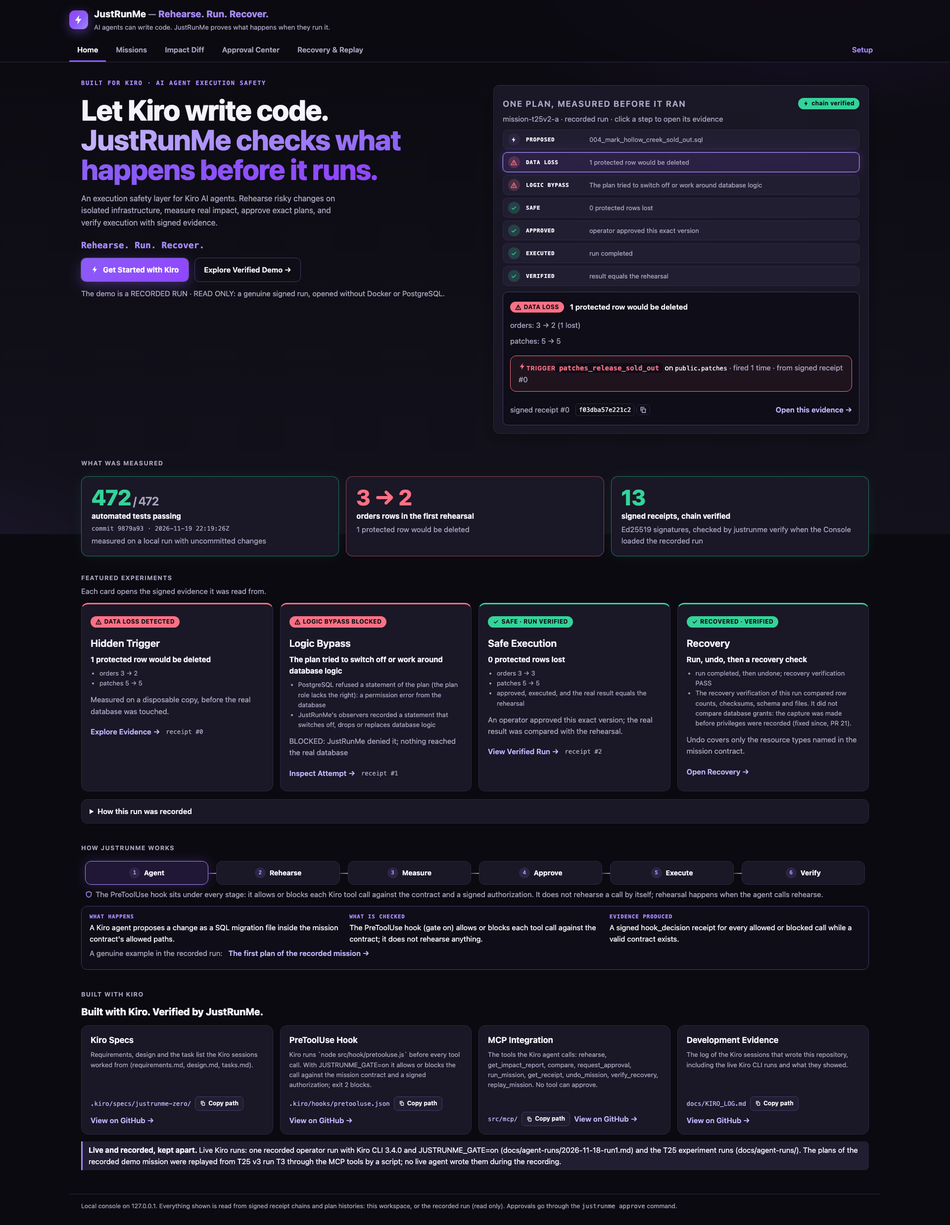
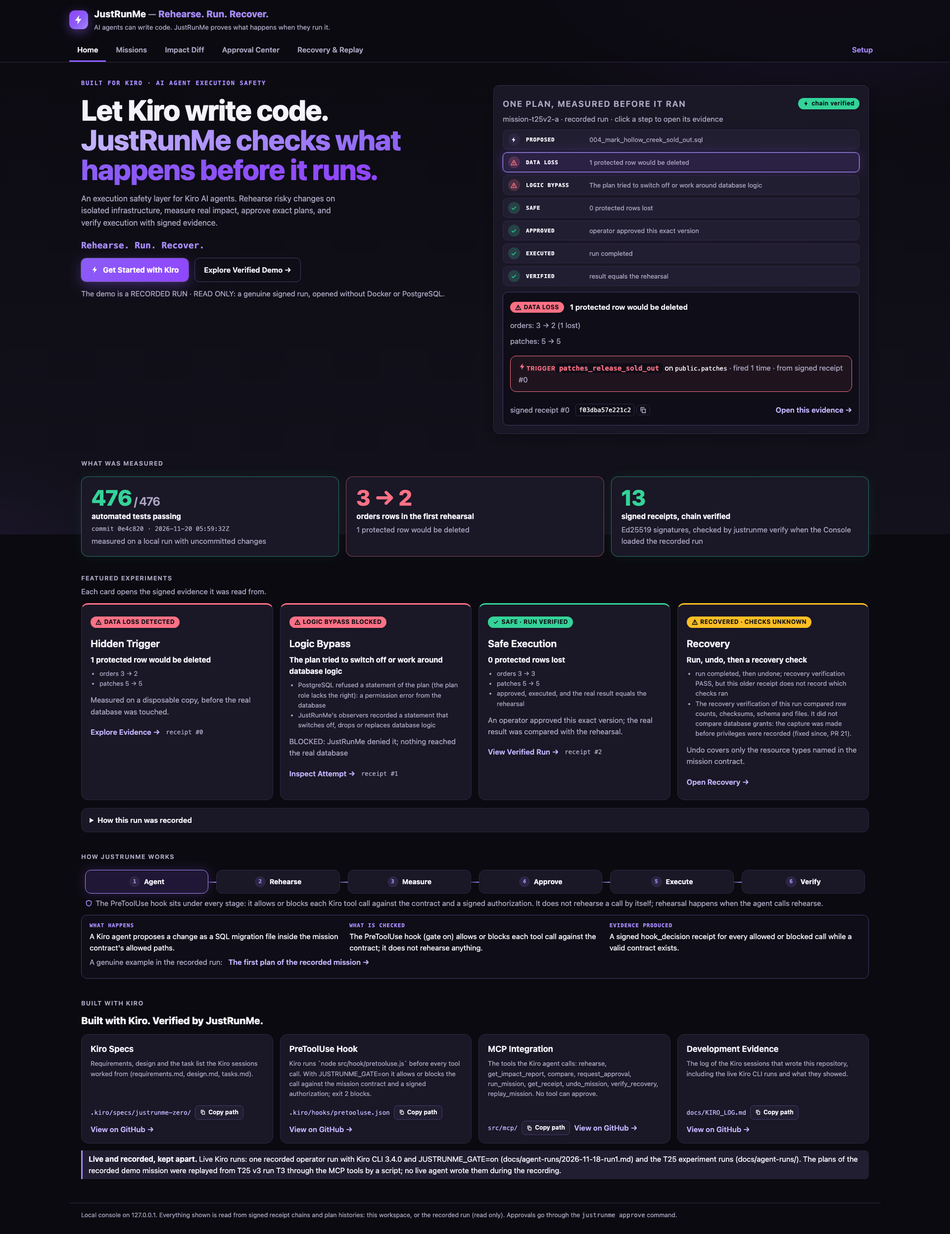
feat: verification receipts list their checks; the Console keeps four recovery states apart (#23)
- undo: the verification receipt carries checked (the kinds of check that
  ran) next to not_checked
- history: each undo has receipt_format current or legacy, checked and
  not_checked; an absent list is unknown, never complete
- Console: RECOVERED · VERIFIED (PASS, checks listed), RECOVERED · CHECKS
  UNKNOWN (PASS from a legacy receipt), RESTORED · NOT VERIFIED
  (UNVERIFIABLE), RECOVERY FAILED (FAIL), on cards, the Flight Recorder,
  Recovery & Replay and Home; the limit only where checks are unknown

diff --git a/src/console/static/model.js b/src/console/static/model.js
@@ -50,10 +50,15 @@ export function runOutcome(story) {
   if (!r) return null
   // RECOVERED only with a verification receipt that says PASS; an undo without one is not a recovery claim.
   if (r.undo) {
-    if (r.undo.verification === 'PASS') return { label: 'RECOVERED · VERIFIED', tone: 'ok', text: `run ${r.verdict}, then undone; recovery verification PASS` }
+    if (r.undo.verification === 'PASS') {
+      // A PASS counts as a full recovery claim only when the receipt says which checks ran.
+      if (r.undo.receipt_format !== 'current') return { label: 'RECOVERED · CHECKS UNKNOWN', tone: 'warn', text: `run ${r.verdict}, then undone; recovery verification PASS, but this older receipt does not record which checks ran` }
+      const grants = (r.undo.checked ?? []).includes('privileges')
+      return { label: 'RECOVERED · VERIFIED', tone: 'ok', text: `run ${r.verdict}, then undone; recovery verification PASS${grants ? ' (data, schema, files and supported database grants and ownership)' : ''}` }
+    }
     if (r.undo.verification == null) return { label: 'UNDONE · NOT VERIFIED', tone: 'mute', text: `run ${r.verdict}, then undone; no recovery verification is recorded` }
     // A required check could not be made (a capture older than the check): restored, not verified.
-    if (r.undo.verification === 'UNVERIFIABLE') return { label: 'RESTORED · NOT VERIFIED', tone: 'mute', text: `run ${r.verdict}, then undone; a required recovery check could not be made (UNVERIFIABLE)` }
+    if (r.undo.verification === 'UNVERIFIABLE') return { label: 'RESTORED · NOT VERIFIED', tone: 'mute', text: `run ${r.verdict}, then undone; a required recovery check could not be made: ${(r.undo.not_checked ?? []).map((c) => c.check).join(', ') || 'UNVERIFIABLE'}` }
     return { label: 'RECOVERY FAILED', tone: 'bad', text: `run ${r.verdict}, then undone; recovery verification ${r.undo.verification}` }
   }
   if (runVerified(f)) return { label: 'COMPLETED · VERIFIED', tone: 'ok', text: f.links ? 'approved, executed, and the real result equals the rehearsal' : 'executed, and the real result equals the rehearsal' }
@@ -187,7 +192,7 @@ export function flight(story) {
           : missing('no approval requested'),
     EXECUTED: f.run ? { state: f.run.verdict === 'completed' && (f.links ? linkOk('EXECUTED_AS_AUTHORIZED') : true) ? 'ok' : 'bad', note: `run ${f.run.verdict}`, receipt: rec(f.run), run: f.run } : missing('not run'),
     VERIFIED: f.run
-      ? { state: !((f.links ? linkOk('RESULT_AS_REHEARSED') : f.run.matches_rehearsal === true)) ? 'bad' : !f.run.undo || f.run.undo.verification === 'PASS' ? 'ok' : f.run.undo.verification === 'FAIL' ? 'bad' : 'mute', note: `${f.run.matches_rehearsal ? 'result equals the rehearsal' : `${f.run.differences ?? '?'} difference(s) from the rehearsal`}${f.run.undo ? `; undone, recovery check ${f.run.undo.verification ?? '—'}` : ''}`, receipt: rec(f.run), run: f.run }
+      ? { state: !((f.links ? linkOk('RESULT_AS_REHEARSED') : f.run.matches_rehearsal === true)) ? 'bad' : !f.run.undo ? 'ok' : f.run.undo.verification === 'PASS' ? (f.run.undo.receipt_format === 'current' ? 'ok' : 'warn') : f.run.undo.verification === 'FAIL' ? 'bad' : 'mute', note: `${f.run.matches_rehearsal ? 'result equals the rehearsal' : `${f.run.differences ?? '?'} difference(s) from the rehearsal`}${f.run.undo ? `; undone, recovery check ${f.run.undo.verification ?? '—'}` : ''}`, receipt: rec(f.run), run: f.run }
       : missing('nothing to verify yet'),
   }
   return FLIGHT.map((name) => ({ name, ...node[name] }))
@@ -313,7 +318,7 @@ export function eligibility(detail, { now = Date.now(), storyState = null, verif
 /** Triage: what needs a person first. Lower is more urgent. */
 export function urgency(story, verifyOk = true) {
   const v = missionVerdict(story, verifyOk)
-  return { 'NEEDS APPROVAL': 0, 'NOT AS REHEARSED': 1, 'RECOVERY FAILED': 1, 'RUN FAILED': 1, 'NOT VERIFIED': 1, UNVERIFIABLE: 2, DENIED: 2, 'NOT SAFE': 2, REPAIRED: 3, APPROVED: 3, SAFE: 4 }[v.label] ?? 5
+  return { 'NEEDS APPROVAL': 0, 'NOT AS REHEARSED': 1, 'RECOVERY FAILED': 1, 'RESTORED · NOT VERIFIED': 1, 'RECOVERED · CHECKS UNKNOWN': 3, 'RUN FAILED': 1, 'NOT VERIFIED': 1, UNVERIFIABLE: 2, DENIED: 2, 'NOT SAFE': 2, REPAIRED: 3, APPROVED: 3, SAFE: 4 }[v.label] ?? 5
 }
 
 // ---- Home: the recorded run as an evidence trail and four experiment cards ---------------------
@@ -378,10 +383,12 @@ export function experimentCards(states, provenance = null) {
     ? { id: 'safe-execution', title: 'Safe Execution', tone: 'ok', label: 'SAFE · RUN VERIFIED', headline: `${losses(safe).rows_lost} protected rows lost`, lines: [...tableLines(safe).map((t) => `${t.name} ${t.before ?? '?'} → ${t.after ?? '?'}`), runOutcome(safeE[1]).text], seq: safe.seq, receipt: rcpt(safe), mission: safeE[0], href: `missions/${safeE[0]}/verified`, cta: 'View Verified Run', note: 'An operator approved this exact version; the real result was compared with the rehearsal.' }
     : miss('safe-execution', 'Safe Execution', safe && !safeE[2] ? 'The chain of this run does not pass `justrunme verify`, so no result is claimed.' : 'This recording has no verified run of a SAFE plan.')
 
-  const recE = find((s) => runOutcome(s)?.label === 'RECOVERED · VERIFIED')
+  // The card shows the recovery as the receipt states it: verified, or with checks unknown (older receipt).
+  const recE = find((s) => ['RECOVERED · VERIFIED', 'RECOVERED · CHECKS UNKNOWN'].includes(runOutcome(s)?.label))
   const limit = recE ? provenance?.missions?.[recE[0]]?.limit ?? null : null
+  const recOut = recE ? runOutcome(recE[1]) : null
   const c4 = recE && recE[2]
-    ? { id: 'recovery', title: 'Recovery', tone: 'ok', label: 'RECOVERED · VERIFIED', headline: 'Run, undo, then a recovery check', lines: [runOutcome(recE[1]).text, ...(limit ? [limit] : [])], mission: recE[0], href: 'recovery', cta: 'Open Recovery', note: 'Undo covers only the resource types named in the mission contract.' }
+    ? { id: 'recovery', title: 'Recovery', tone: recOut.tone, label: recOut.label, headline: 'Run, undo, then a recovery check', lines: [runOutcome(recE[1]).text, ...(limit ? [limit] : [])], mission: recE[0], href: 'recovery', cta: 'Open Recovery', note: 'Undo covers only the resource types named in the mission contract.' }
     : miss('recovery', 'Recovery', recE ? 'The chain of this run does not pass `justrunme verify`, so no recovery is claimed.' : 'This recording has no undo with a passing recovery check.')
   return [c1, c2, c3, c4]
 }
@@ -401,12 +408,11 @@ export function missionSummary(story, verifyOk = true) {
       : f.pending ? 'waiting for the operator\'s approval'
         : f.approved ? 'approved, not run yet'
           : revisions.length ? 'not run' : 'no rehearsal yet'
-  // A recovery claim carries its limit wherever it is shown.
-  return { revisions, outcome: out?.label === 'RECOVERED · VERIFIED' ? `${outcome} (database grants were not compared)` : outcome, tone: v.tone }
+  return { revisions, outcome, tone: v.tone }
 }
 
-/** What the recovery verification does not cover today (engine issue, tracked separately). */
-export const RECOVERY_LIMIT = 'This recovery check compared the schema, row counts, checksums and files; it did not compare database grants or ownership (its capture was made before privileges were recorded). Captures made since then record them, and their recovery check compares supported database grants and ownership.'
+/** Shown next to a recovery whose verification receipt does not list its checks (an older receipt format). */
+export const RECOVERY_LIMIT = 'This verification receipt is in an older format: it does not record which checks ran, so the completeness of this recovery check is unknown. Recoveries verified before database privileges were recorded compared the schema, row counts, checksums and files, not grants or ownership. Current receipts list every check, and their check compares supported database grants and ownership.'
 
 /**
  * The top of Recovery & Replay: what the run and the undo showed, from the verified story only.
@@ -424,7 +430,13 @@ export function recoverySummary(story, verifyOk = true) {
     { ok: r.verdict === 'completed', text: `Run #${r.seq}: ${r.verdict}` },
     { ok: r.matches_rehearsal === true, text: r.matches_rehearsal === true ? 'The real result matched the rehearsal' : `${r.differences ?? '?'} difference(s) from the rehearsal` },
   ]
-  if (r.undo) lines.push({ ok: r.undo.verification === 'PASS', text: `Undone; recovery verification ${r.undo.verification ?? 'not recorded'}` })
+  if (r.undo) {
+    const v = r.undo.verification
+    lines.push({ ok: v === 'PASS' ? true : v === 'FAIL' ? false : null, text: `Undone; recovery verification ${v ?? 'not recorded'}` })
+    if (r.undo.receipt_format === 'current' && v === 'PASS') lines.push({ ok: (r.undo.checked ?? []).includes('privileges') ? true : null, text: `Checked: ${(r.undo.checked ?? []).join(', ')}` })
+    for (const c of r.undo.not_checked ?? []) lines.push({ ok: null, text: `Not checked: ${c.check} (${c.resource})` })
+  }
   const label = out?.label === 'COMPLETED · VERIFIED' ? 'EXECUTION VERIFIED' : out?.label ?? 'RUN RECORDED'
-  return { label, tone: out?.tone ?? 'mute', lines, limit: r.undo ? RECOVERY_LIMIT : null }
+  // The limit is shown only where the receipt cannot say which checks ran.
+  return { label, tone: out?.tone ?? 'mute', lines, limit: r.undo?.verification === 'PASS' && r.undo.receipt_format !== 'current' ? RECOVERY_LIMIT : null }
 }

diff --git a/test/console-setup.test.js b/test/console-setup.test.js
@@ -222,11 +222,12 @@ describe('Recorded titles and recovery claims', () => {
     const sa = missionSummary(states[A].story.result, true)
     assert.deepEqual(sa.revisions.map((r) => `#${r.seq} ${r.verdict}`), ['#0 DATA LOSS', '#1 LOGIC BYPASS', '#2 SAFE'])
     const sb = missionSummary(states[B].story.result, true)
-    assert.ok(sb.outcome.includes('recovery verification PASS') && sb.outcome.includes('database grants were not compared'))
+    assert.ok(sb.outcome.includes('recovery verification PASS') && sb.outcome.includes('does not record which checks ran'), sb.outcome)
     const rb = recoverySummary(states[B].story.result, true)
-    assert.equal(rb.label, 'RECOVERED · VERIFIED')
+    assert.equal(rb.label, 'RECOVERED · CHECKS UNKNOWN', 'an older receipt does not say which checks ran')
+    assert.equal(rb.tone, 'warn')
     assert.equal(rb.limit, RECOVERY_LIMIT)
-    assert.ok(RECOVERY_LIMIT.includes('did not compare database grants or ownership'))
+    assert.ok(RECOVERY_LIMIT.includes('completeness of this recovery check is unknown') && RECOVERY_LIMIT.includes('not grants or ownership'))
     const ra = recoverySummary(states[A].story.result, true)
     assert.equal(ra.label, 'EXECUTION VERIFIED')
     assert.deepEqual(ra.lines.map((l) => l.ok), [true, true, true])
@@ -238,9 +239,55 @@ describe('Recorded titles and recovery claims', () => {
     const { recoveryScreen } = await import('../src/console/static/screens.js')
     const root = recoveryScreen(states[B], { ui: {}, route: { screen: 'recovery' }, readOnly: true, api: async () => ({}) })
     const t = text(root)
-    assert.ok(t.indexOf('RECOVERED · VERIFIED') < t.indexOf('Receipt chain'), 'summary before the chain')
-    assert.ok(t.includes('did not compare database grants'), 'the limit is next to the claim')
+    assert.ok(t.indexOf('RECOVERED · CHECKS UNKNOWN') < t.indexOf('Receipt chain'), 'summary before the chain')
+    assert.ok(t.includes('completeness of this recovery check is unknown'), 'the limit is next to the claim')
     assert.ok(t.includes('Authorized at the command line'))
     assert.equal(findAll(root, (e) => e.tag === 'details' && hasClass(e, 'chain-box')).length, 1)
+  })
+})
+
+describe('Four recovery states stay apart (history exposes what the verification checked)', () => {
+  const base = (undo) => ({
+    chain_ok: true, history: { ok: true }, requests: [], links: [], timeline: [],
+    versions: [{ seq: 0, verdict: 'SAFE', available: true, plan_id: 'plan-000000000001', report_hash: 'h', files: [] }],
+    runs: [{ seq: 1, verdict: 'completed', matches_rehearsal: true, report_hash: 'h', authorization: 'a', undo: { seq: 2, verdict: 'undo', ...undo } }],
+  })
+  const CURRENT = { receipt_format: 'current', checked: ['file_sha256', 'privileges', 'row_count', 'schema_hash', 'table_checksum'], not_checked: [] }
+
+  it('PASS with its checks listed is RECOVERED · VERIFIED; PASS from an older receipt is CHECKS UNKNOWN; UNVERIFIABLE is RESTORED · NOT VERIFIED; FAIL is RECOVERY FAILED', async () => {
+    const { runOutcome, recoverySummary, flight } = await import('../src/console/static/model.js')
+    const cases = [
+      [{ verification: 'PASS', ...CURRENT }, 'RECOVERED · VERIFIED', 'ok', 'ok', false],
+      [{ verification: 'PASS', receipt_format: 'legacy', checked: null, not_checked: [] }, 'RECOVERED · CHECKS UNKNOWN', 'warn', 'warn', true],
+      [{ verification: 'UNVERIFIABLE', receipt_format: 'current', checked: ['row_count'], not_checked: [{ check: 'privileges', resource: 'db' }] }, 'RESTORED · NOT VERIFIED', 'mute', 'mute', false],
+      [{ verification: 'FAIL', ...CURRENT }, 'RECOVERY FAILED', 'bad', 'bad', false],
+    ]
+    for (const [undo, label, tone, node, limit] of cases) {
+      const s = base(undo)
+      assert.deepEqual([runOutcome(s).label, runOutcome(s).tone], [label, tone], label)
+      assert.equal(flight(s).find((n) => n.name === 'VERIFIED').state, node, `${label}: VERIFIED node`)
+      assert.equal(Boolean(recoverySummary(s, true).limit), limit, `${label}: limit only where the checks are unknown`)
+    }
+    const full = recoverySummary(base({ verification: 'PASS', ...CURRENT }), true)
+    assert.ok(full.lines.some((l) => l.text.startsWith('Checked: ') && l.text.includes('privileges') && l.ok === true))
+    const partial = recoverySummary(base({ verification: 'UNVERIFIABLE', receipt_format: 'current', checked: ['row_count'], not_checked: [{ check: 'privileges', resource: 'db' }] }), true)
+    assert.ok(partial.lines.some((l) => l.text === 'Not checked: privileges (db)'))
+    assert.ok(runOutcome(base({ verification: 'UNVERIFIABLE', receipt_format: 'current', checked: [], not_checked: [{ check: 'privileges', resource: 'db' }] })).text.includes('privileges'))
+  })
+
+  it('history: the recorded Demo B is a legacy receipt (checks unknown, never assumed complete)', () => {
+    const u = states[B].story.result.runs[0].undo
+    assert.equal(u.verification, 'PASS')
+    assert.equal(u.receipt_format, 'legacy')
+    assert.equal(u.checked, null, 'an absent list is unknown, not empty and not complete')
+    assert.deepEqual(u.not_checked, [])
+  })
+
+  it('history: a current verification receipt lists its checks, and undo writes them', async () => {
+    const { readFileSync } = await import('node:fs')
+    const src = readFileSync(new URL('../src/undo/undo.js', import.meta.url), 'utf8')
+    assert.match(src, /checked: \[\.\.\.new Set\(verification\.checks\.map\(\(c\) => c\.check\)\)\]\.sort\(\)/)
+    const story = readFileSync(new URL('../src/history/story.js', import.meta.url), 'utf8')
+    assert.match(story, /receipt_format: verification \? \(current \? 'current' : 'legacy'\) : null/)
   })
 })

diff --git a/src/console/static/screens.js b/src/console/static/screens.js
@@ -188,7 +188,7 @@ function runEvidence(r, s) {
   return h('div', { class: 'kv-list' },
     kv('verdict', badge(r.verdict, toneOf(r.verdict))), kv('capture', h('span', { class: 'mono', text: r.capture_id ?? '—' })),
     kv('as rehearsed', r.matches_rehearsal === true ? badge('real result equals the rehearsal', 'ok', 'bolt') : r.matches_rehearsal === false ? badge(`${r.differences} difference(s)`, 'bad', 'cross') : badge('not recorded', 'mute')),
-    r.undo ? kv('undo', badge(`${r.undo.verdict} · recovery check ${r.undo.verification ?? '—'}`, r.undo.verification === 'PASS' ? 'ok' : r.undo.verification === 'FAIL' ? 'bad' : 'mute')) : null,
+    r.undo ? kv('undo', badge(`${r.undo.verdict} · recovery check ${r.undo.verification ?? '—'}`, undoTone(r.undo))) : null,
     set ? kv('links', h('span', { class: 'col' }, set.links.map((l) => h('span', { class: 'mono' }, ok(l.ok), ` ${l.code}${l.ok ? '' : ` — ${l.why}`}`)))) : null)
 }
 
@@ -214,6 +214,9 @@ function receiptBlock(r, s, ctx) {
   return h('div', { class: 'receipt' }, h('h3', { text: 'Receipt' }),
     h('div', { class: 'kv-list' }, kv('receipt', h('span', { class: 'mono', text: `#${r.seq}${t ? ` ${t.kind}` : ''}` })), kv('hash', hashChip(r.hash, 22)), kv('signature', sigBadge(s, r.seq))), detail, more)
 }
+
+/** One colour per recovery state: PASS with its checks listed, PASS from an older receipt, FAIL, anything else. */
+const undoTone = (u) => (u.verification === 'PASS' ? (u.receipt_format === 'current' ? 'ok' : 'warn') : u.verification === 'FAIL' ? 'bad' : 'mute')
 
 const sigBadge = (s, seq) => (s.chain_ok && !(s.chain_findings ?? []).some((f) => f.seq === seq) ? badge('verified by the chain check', 'ok', 'check') : badge('does not verify', 'bad', 'cross'))
 
@@ -645,7 +648,7 @@ function runsTable(runs, ctx) {
       h('td', {}, badge(r.verdict, toneOf(r.verdict))),
       h('td', {}, r.matches_rehearsal === true ? badge('matched', 'ok', 'check') : r.matches_rehearsal === false ? badge(`${r.differences} diff`, 'bad', 'cross') : badge('not recorded', 'mute')),
       h('td', { class: 'mono', text: r.capture_id ?? '—' }),
-      h('td', {}, r.undo ? badge(`${r.undo.verdict} · ${r.undo.verification ?? '—'}`, r.undo.verification === 'PASS' ? 'ok' : r.undo.verification === 'FAIL' ? 'bad' : 'mute') : ctx.readOnly ? h('span', { class: 'muted', text: 'read only' }) : undoForm(r, ctx))))))
+      h('td', {}, r.undo ? badge(`${r.undo.verdict} · ${r.undo.verification ?? '—'}`, undoTone(r.undo)) : ctx.readOnly ? h('span', { class: 'muted', text: 'read only' }) : undoForm(r, ctx))))))
 }
 
 function undoForm(r, ctx) {

diff --git a/src/history/story.js b/src/history/story.js
@@ -46,6 +46,23 @@ const link = (code, ok, why) => ({ code, ok, ...(ok ? {} : { why }) })
 /**
  * @param {{ repoDir: string, missionId: string, chain: { ok: boolean, receipts: any[], findings: any[] }, now?: number }} a
  */
+/**
+ * The undo of a run and what its verification receipt says it checked. Receipts written before
+ * the list of checks existed are 'legacy': which checks ran is unknown, never assumed complete.
+ */
+function undoOf(undo, verification) {
+  const subject = verification?.subject ?? {}
+  const current = Array.isArray(subject.checked)
+  return {
+    seq: undo.seq,
+    verdict: undo.verdict,
+    verification: verification?.verdict ?? null,
+    receipt_format: verification ? (current ? 'current' : 'legacy') : null,
+    checked: current ? subject.checked : null,
+    not_checked: Array.isArray(subject.not_checked) ? subject.not_checked.map((c) => ({ check: c.check, resource: c.resource })) : [],
+  }
+}
+
 export function buildStory({ repoDir, missionId, chain, now = Date.now() }) {
   if (!chain.ok) return { mission_id: missionId, chain_ok: false, chain_findings: chain.findings, versions: [], requests: [], runs: [], links: [], timeline: [], history: null }
   const receipts = chain.receipts
@@ -96,7 +113,7 @@ export function buildStory({ repoDir, missionId, chain, now = Date.now() }) {
         differences: r.subject?.differences ?? null,
         authorization: auth ? receiptHash(auth) : null,
         request_id: request?.request_id ?? null,
-        undo: undo ? { seq: undo.seq, verdict: undo.verdict, verification: verification?.verdict ?? null } : null,
+        undo: undo ? undoOf(undo, verification) : null,
       }
     })
 

diff --git a/test/console-missions.test.js b/test/console-missions.test.js
@@ -83,7 +83,7 @@ before(async () => {
   const auth = appendReceipt({ repoDir, keys, missionId: C, kind: 'authorization_issued', verdict: 'allow', subject: { plan_id: PLAN_C, report_hash: c.reportHash, plan_files_hash: hashValue(c.files), passphrase_source: 'stdin' }, refs: { rehearsal: c.receipt }, now: T0 + 1000 })
   const run = appendReceipt({ repoDir, keys, missionId: C, kind: 'run_result', verdict: 'completed', subject: { plan_id: PLAN_C, capture_id: CAPTURE, plan_files_hash: hashValue(c.files), report_hash: c.reportHash, matches_rehearsal: true, differences: 0 }, refs: { authorization: auth.hash }, now: T0 + 2000 })
   const undo = appendReceipt({ repoDir, keys, missionId: C, kind: 'undo', verdict: 'undo', subject: { capture_id: CAPTURE }, refs: { run: run.hash }, now: T0 + 3000 })
-  appendReceipt({ repoDir, keys, missionId: C, kind: 'verification', verdict: 'PASS', subject: { capture_id: CAPTURE }, refs: { undo: undo.hash }, now: T0 + 4000 })
+  appendReceipt({ repoDir, keys, missionId: C, kind: 'verification', verdict: 'PASS', subject: { capture_id: CAPTURE, checks: 9, checked: ['container_image', 'file_sha256', 'privileges', 'row_count', 'schema_hash', 'table_checksum'], failed: [] }, refs: { undo: undo.hash }, now: T0 + 4000 })
   api = createApi({ repoDir })
   restoreDom = installFakeDom()
 })

diff --git a/test/console-home.test.js b/test/console-home.test.js
@@ -297,7 +297,10 @@ describe('Home screen', () => {
     assert.deepEqual(cards.map((c) => text(findAll(c, (e) => e.tag === 'h3')[0])), ['Hidden Trigger', 'Logic Bypass', 'Safe Execution', 'Recovery'])
     assert.ok(text(cards[0]).includes('DATA LOSS DETECTED') && text(cards[0]).includes('orders 3 → 2'))
     assert.ok(text(cards[2]).includes('0 protected rows lost') && text(cards[2]).includes('equals the rehearsal'))
-    assert.ok(text(cards[3]).includes('RECOVERED · VERIFIED') && text(cards[3]).includes('did not compare database grants'))
+    // Demo B's verification receipt predates the list of checks: shown as checks unknown, with the provenance limit.
+    assert.ok(text(cards[3]).includes('RECOVERED · CHECKS UNKNOWN') && !text(cards[3]).includes('RECOVERED · VERIFIED'), text(cards[3]))
+    assert.ok(text(cards[3]).includes('did not compare database grants'))
+    assert.ok(hasClass(cards[3], 'warn'), 'not green')
     assert.ok(text(cards[3]).includes('only the resource types named in the mission contract'))
     for (const [i, [href, mission]] of [['impact', A], [`missions/${A}/denied`, A], [`missions/${A}/verified`, A], ['recovery', B]].entries()) {
       const a = findAll(cards[i], (e) => e.tag === 'a')[0]

diff --git a/test/demo-b.test.js b/test/demo-b.test.js
@@ -154,6 +154,10 @@ describe('Demo B: a failed run is undone and the recovery is verified', { skip: 
     assert.equal(kinds('file_absent').length, 0)
     assert.deepEqual(kinds('health').map((c) => c.actual), [200])
     assert.ok(kinds('container_image').length >= 2)
+    assert.equal(kinds('privileges').length, 1, 'the capture recorded privileges, so they are checked')
+    // The signed verification receipt names the kinds of check that ran (history reads them).
+    const vr = verifyChain({ repoDir, home: keys.home, publicKey: keys.publicKey, missionId: 'mission-demo-b' }).receipts.findLast((x) => x.kind === 'verification')
+    assert.deepEqual(vr.subject.checked, ['container_image', 'file_sha256', 'health', 'privileges', 'row_count', 'schema_hash', 'table_checksum'])
 
     // Independently of the verifier: the live state equals the state before the run.
     const now = await measureReal()

diff --git a/src/undo/undo.js b/src/undo/undo.js
@@ -162,6 +162,8 @@ export async function undoMission({ repoDir, missionId, captureId, target, keys,
       subject: {
         capture_id: captureId,
         checks: verification.checks.length,
+        // Which kinds of check ran: without this list a reader cannot tell a full check from a partial one.
+        checked: [...new Set(verification.checks.map((c) => c.check))].sort(),
         failed: verification.failed.map((c) => ({ check: c.check, resource: c.resource, expected: c.expected, actual: c.actual })),
         ...(verification.not_checked?.length ? { not_checked: verification.not_checked.map((c) => ({ check: c.check, resource: c.resource })) } : {}),
         integration_tests: verification.integration_tests,

diff --git a/src/console/static/style.css b/src/console/static/style.css
@@ -592,3 +592,4 @@ body.is-home .side { display: none; }
 .chain-box[open] summary { margin-bottom: 12px; }
 .decided { display: flex; align-items: center; gap: 6px; margin: 2px 0 10px; font-weight: 600; }
 .decided .icon { width: 15px; height: 15px; color: var(--green); }
+.xcard.warn { border-top-color: var(--amber); }

diff --git a/README.md b/README.md
@@ -24,7 +24,7 @@ feature until it has a passing end-to-end test.
 | Rehearsal, impact report, fidelity gate | Implemented for `sql_migration` and `shell` steps; Demo A (DATA LOSS blocked, safe replan runs, drift blocked) passes against real Docker and Postgres. No failing-test count yet |
 | Signed run authorization | Implemented: signed by a separate approver Ed25519 key that is sealed at rest (scrypt + AES-256-GCM) and opened only by the CLI the human runs; bound to the fingerprint, single use. The operator key signs receipts, the approver key signs authorizations only |
 | Approval of agent plans | Implemented and tested against real Postgres (test/demo-approval.test.js): the agent asks with `request_approval` for a SAFE plan that is still current (the workspace unchanged since its rehearsal, and the plan the fixed rule recommends); the operator reads the exact SQL and the measured impact (`justrunme approvals <id>`) and approves with the plan id typed again, or denies. A request is answered once, is bound to the report, the rehearsed base and the SQL file hashes, and expires after one hour at most; a file changed before approval cannot be approved, and a file changed after approval stops the run (the source fingerprint catches it; the authorization also carries the file hashes and the runner checks them again after the capture, a second check that no test reaches because the fingerprint refuses first). A migration file git ignores is not in the rehearsal copy, so it never rehearses SAFE. A used authorization put back is refused from the chain. The receipt records where the passphrase came from (`tty`, `stdin` or `env`). In the test the MCP server runs without the passphrase and the sealed key file is unreadable while the server works (not checked when the tests run as root) |
-| Undo and recovery verification | Implemented for files under `allowed_paths`, contract config files and the named Postgres database; Demo B (failed real run, undo, verification of schema, row counts, checksums, files, images and `/health`, negative controls) passes against real Docker and Postgres. Containers and volumes are verified, not restored. Database privileges: the capture keeps the dump's GRANT and REVOKE statements and records owners and access lists (database, schemas, tables, views, sequences, columns, functions, default privileges); the restore sets the database-level grants again, and the verification fails when any of them differs (test/demo-undo-grants.test.js against real Postgres 16). A PASS of this check means: supported database grants and ownership verified, not every PostgreSQL permission. Not covered: types and domains, large objects, row-level security policies, role attributes, role and database settings. Ownership is not restored: objects belong to the user that loads the dump, and the verification fails if the owners were different. Captures made before this change record no privileges: the restore still runs, the verification is `UNVERIFIABLE` (the check is listed as not done) and the undo ends `RESTORED_UNVERIFIED` (exit 33), never `RECOVERED` |
+| Undo and recovery verification | Implemented for files under `allowed_paths`, contract config files and the named Postgres database; Demo B (failed real run, undo, verification of schema, row counts, checksums, files, images and `/health`, negative controls) passes against real Docker and Postgres. Containers and volumes are verified, not restored. Database privileges: the capture keeps the dump's GRANT and REVOKE statements and records owners and access lists (database, schemas, tables, views, sequences, columns, functions, default privileges); the restore sets the database-level grants again, and the verification fails when any of them differs (test/demo-undo-grants.test.js against real Postgres 16). A PASS of this check means: supported database grants and ownership verified, not every PostgreSQL permission. Not covered: types and domains, large objects, row-level security policies, role attributes, role and database settings. Ownership is not restored: objects belong to the user that loads the dump, and the verification fails if the owners were different. Captures made before this change record no privileges: the restore still runs, the verification is `UNVERIFIABLE` (the check is listed as not done) and the undo ends `RESTORED_UNVERIFIED` (exit 33), never `RECOVERED`. The verification receipt lists the kinds of check that ran (`checked`) and those that could not be made (`not_checked`); the Console shows a PASS from an older receipt without that list as `RECOVERED · CHECKS UNKNOWN`, not as verified |
 | Receipts (Ed25519, hash chain) | Implemented for rehearsal, authorization, run, undo, verification and every hook decision, with a head anchor outside the workspace and ordering rules; a one-byte change anywhere fails verification (property test); 24 parallel hook processes produce one gap-free chain (test) |
 | Plan comparison (counterfactual replay) | Implemented as a library: stored rehearsals are compared only with equal `base_hash` (same source state and environment), equal rehearsal conditions, operator signatures and matching rehearsal receipts; a fixed rule picks the plan, names the deciding rule, and the choice is a signed `plan_selected` receipt. A replay checks that the choice follows from the signed measurements; it does not measure the database again. When several plans were rehearsed on the current state, only the selected one can be authorized; a selection made on another state grants nothing. Demo A compares its dangerous and safe plans against real Postgres; `justrunme compare` and the MCP `compare` tool run it. The Console shows the last denied plan and the approved plan side by side from the signed rehearsals (Counterfactual Replay on the Impact Diff screen); it does not show review verdicts, which the chain does not record |
 | MCP server (`node src/mcp/server.js`, official SDK, stdio) | Implemented and tested against real Postgres: `rehearse`, `get_impact_report`, `compare`, `request_approval`, `run_mission`, `get_receipt`, `undo_mission`, `verify_recovery`, `replay_mission`. An agent proposes only SQL migration files inside the operator's mission; a denied plan comes back with the measured loss, the constraints a revision must meet and the next action; nothing here says a revision will be safe, only a new rehearsal does. `run_mission` runs only with the operator's approval and reports whether the real result matches the rehearsal (schema hash, row counts, checksums). No tool can approve |

diff --git a/docs/KIRO_LOG.md b/docs/KIRO_LOG.md
@@ -1088,3 +1088,12 @@ Review of PR 21 by the owner, two findings, both fixed in a second commit on the
 - P1, a capture without privileges (made before this change) still gave verification PASS and undo RECOVERED, because `not_checked` did not change the status. Now `verificationStatus` gives FAIL when a check fails, UNVERIFIABLE when none fails but a required check could not be made, PASS otherwise; `recoveryStatus` gives RECOVERED only with PASS, `RESTORED_UNVERIFIED` when everything was restored and the verification is UNVERIFIABLE, NOT_RECOVERED otherwise. The restore of an old capture still runs. The CLI exits 33 (`RECOVERY_UNVERIFIED`, new) for it; the verification receipt's verdict is UNVERIFIABLE; `undo_mission` returns `ASK_OPERATOR`; `verify_recovery` returns `not_checked`; the Console shows `RESTORED · NOT VERIFIED` in grey and the VERIFIED node grey, never `RECOVERED · VERIFIED`. The Docker control test now expects UNVERIFIABLE with nothing failed.
 - P2, scope: the privileges check carries `scope` ("supported database grants and ownership ...; not RLS policies, role attributes or settings, database settings, types, domains or large objects"), and the README says a PASS of it means supported database grants and ownership, not every PostgreSQL permission.
 Tests added: `verificationStatus` cases, a property test of `recoveryStatus`, exit code 33 distinct from every other code, the Console outcome for UNVERIFIABLE, the scope text.
+---
+## Run 32 — The Console tells a verified recovery from one whose checks are unknown
+| Field | Value |
+|-------|-------|
+| Date | 2026-11-19 |
+| Branch | `kiro/history-checks` from `main` at `0e4c820` (PR 22 squash-merged) |
+| Not touched | the fidelity fingerprint, `measureDatabase`, the T25 protocols, results and runners, `demo/recorded-run` |
+After PR 21 a verification receipt could still not show which checks it covered, so the Console had to show the old limit next to every recovery. Now the verification receipt's subject carries `checked` (the sorted kinds of check that ran) next to `not_checked`; `history` reads both and marks each undo `receipt_format: current` (the list is there) or `legacy` (it is not). An absent list is unknown, never read as complete. Console states, kept apart on mission cards, the Flight Recorder VERIFIED node, Recovery & Replay and the Home recovery card: `RECOVERED · VERIFIED` (PASS with the list; green), `RECOVERED · CHECKS UNKNOWN` (PASS from a legacy receipt; amber, with the limit), `RESTORED · NOT VERIFIED` (UNVERIFIABLE; grey, with what was not checked), `RECOVERY FAILED` (FAIL; red). The recorded Demo B is a legacy receipt and now reads `RECOVERED · CHECKS UNKNOWN`.
+Tests: the four states in the model (outcome, tone, VERIFIED node, limit); the recorded Demo B read as legacy with `checked: null`; the console fixture's receipt written in the current format; `test/demo-b.test.js` (Docker) asserts the signed receipt lists `container_image, file_sha256, health, privileges, row_count, schema_hash, table_checksum`. Local: `npm run test:report` 476/476; Demo B and Demo CLI with `JRM_DOCKER_TESTS=1` 8/8.
